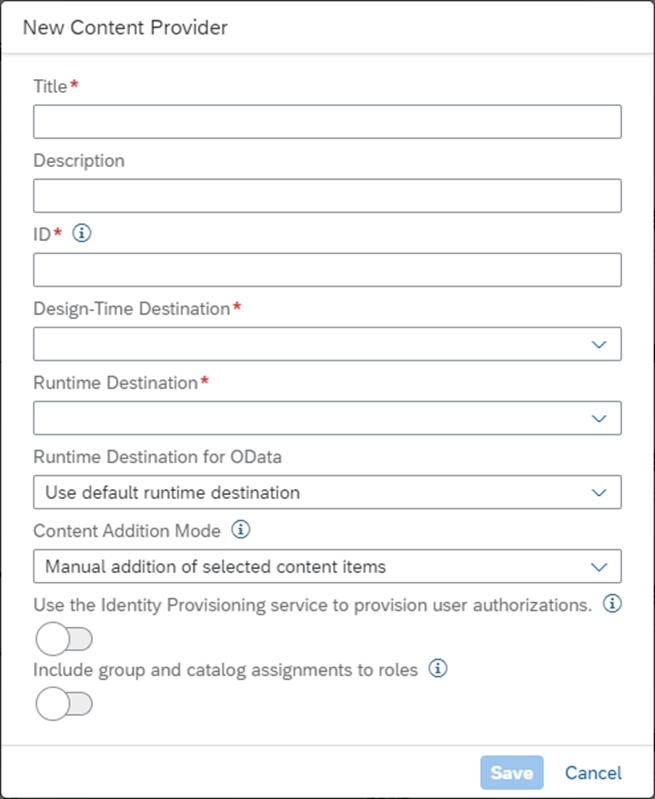
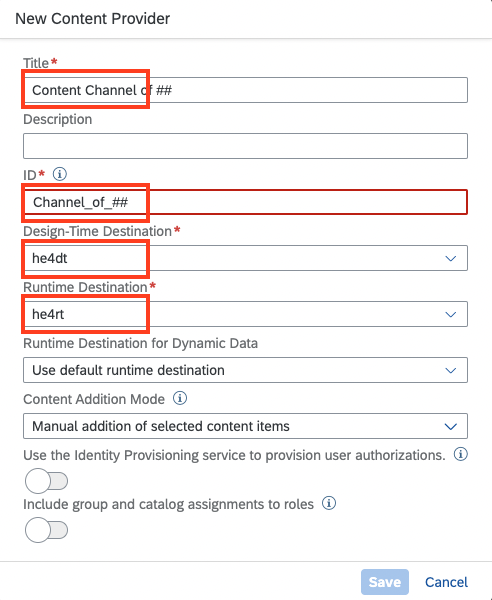
correcting system info

Changed region(s): [[0.0, 0.0, 1.0, 1.0]]

diff --git a/exercises/ex5/README.md b/exercises/ex5/README.md
@@ -9,14 +9,14 @@
 - Destinations pointing to this SAP S/4HANA system for both Run-Time and Design-Time
 - Roles assigned to the user in SAP S/4HANA
 
-> **Note:** SAP Mobile Start currently only supports voice commands on the iOS App.
+> **NOTE:** SAP Mobile Start currently only supports voice commands on the iOS App.
 This tutorial is therefore only applicable to iOS users of SAP Mobile Start.
 The two supported voice commands at the time of the creation of the tutorial are:
 Overdue Receivables and Days Sales Outstanding within the Finance Persona.
 
 ## Step 1: Create the Voice Configuration tile
 
-> **Note:** As an example, in this tutorial the Overdue Receivables Voice command will be configured.
+> **NOTE:** As an example, in this tutorial the Overdue Receivables Voice command will be configured.
 You will use the Visualization parameters later to declare your app as a Voice Configuration for SAP Mobile Start.
 For other devices than the iOS App of SAP Mobile Start, the app will be available as regular tile only.
 
@@ -33,7 +33,7 @@ For other devices than the iOS App of SAP Mobile Start, the app will be availabl
     | Title             | `Overdue Receivables ##` <br /> (*use your number instead of ##*)   |Title you will see on top of the tile.|
     | Description       | `Voice Command for ##` <br /> (*use your number instead of ##*) |Additional info to describe your app. This is shown in the Site Managers app list.| 
     | Open App          | Select **In place**  | Defines the app will be launched within the UI5 shell |
-    | System            | **TODO**  |Field to define the connected backend system an app is running on. In this case **TODO** is used / needed.|
+    | System            | `he4rt`  |Field to define the connected backend system an app is running on. In this case **he4rt** is used / needed.|
     | App UI Technology | SAPUI5 |Defines type of App. In this case the tile points to the Fiori App in the connected SAP system. |
     | SAPUI5 Component | `k1471533162136` | The SAP UI5 Component which can be found in the [SAP Fiori Apps Library](https://fioriappslibrary.hana.ondemand.com/sap/fix/externalViewer/#/detail/Apps('F1747')/S29)|
 
@@ -79,6 +79,8 @@ you need to enter the following parameter names and values:
     | `mobilestart.voice.intentId` | `com.sap.mobile.start.overduereceivables`| Defines to which voice command this configuration belongs |
     | `mobilestart.tile.hidden` | `false` | Defines whether this tile shall be hidden from the in-app screens of SAP Mobile Start. Can be set to true if you don't want this tile to show in SAP Mobile Start but still want to use it as Voice configuration. |
 
+> **NOTE:** For the SAP TechEd 2022 Hands-on Session we are using a separate destination here for the data access. Usually it is the same as selected under the **Properties** section.
+
 It should look like this:
 
 <p align="center">
@@ -110,7 +112,7 @@ In the Assignments section on the right, search for your newly created Voice Con
     Shortcuts app and click on the **+** on the top right to define a
     new shortcut. Choose **Overdue Receivables** as name.
 
-    > **Note**: The chosen name will also be the trigger word(s) to start
+    > **NOTE:**: The chosen name will also be the trigger word(s) to start
     the voice command using Apple Siri. You can also choose a different
     name depending on your preferences.
 

diff --git a/exercises/ex1/README.md b/exercises/ex1/README.md
@@ -26,12 +26,12 @@
     | Title                   | `Content Channel of ##` (*use your number instead of ##*) | Name / Title of Content Channel – often similar to the name of the provider system |
     | Description             | -                                                       | Optional field for further description |
     | ID                      | `Channel_##` (*use your number instead of ##*)            | ID of Content Channel - gets auto filled based on Title (max 20 characters) |
-    | Design-Time Destination | **TBD**                                                 | Design-Time destination of provider system - based on configured Destinations in the Subaccount|
-    | Runtime Destination     | **TBD**                                                 | Runtime destination of provider system – based on configured Destinations in the Subaccount |
+    | Design-Time Destination | `he4dt`                                         | Design-Time destination of provider system - based on configured Destinations in the Subaccount|
+    | Runtime Destination     | `he4rt`                                    | Runtime destination of provider system – based on configured Destinations in the Subaccount |
     | Runtime Destination for OData | Use default runtime destination                   | Some provider systems require a special destination for OData calls |
     | Content Addition Mode   | Manual addition of selected content items               | Defines if you can manually select content you want to add to your Site Manager or if all the provided content should be added automatically |
 
-    It should look like this: **EDIT SCREENSHOT HERE**
+    It should look like this:
 
     <p align="center">
     <img src="./images/tut3-2.png" width="50%" />
